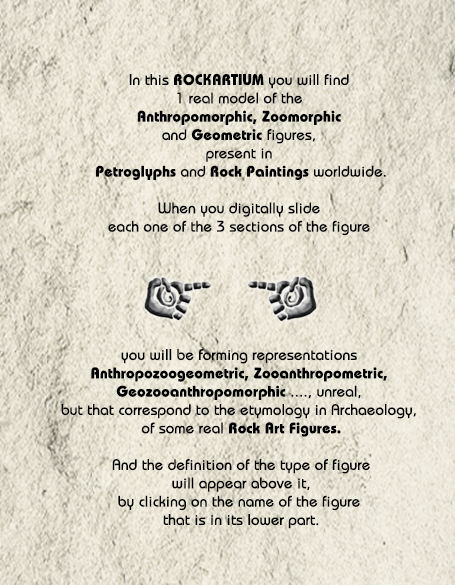
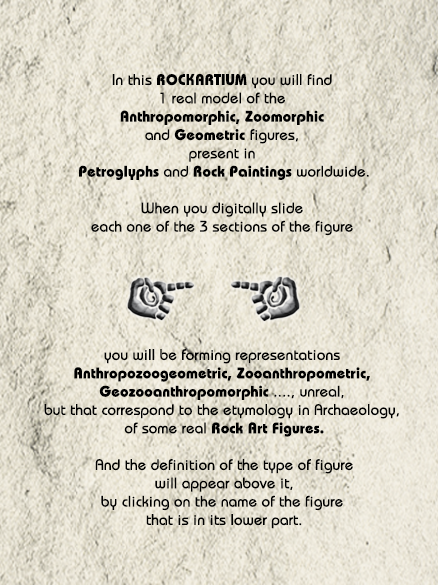
Algunos arreglos

Changed region(s): [[0.0, 0.0, 0.9201, 1.0], [0.5342, 0.9846, 0.5639, 1.0]]

diff --git a/Rupestrarium/js/functions/mainFunctions.js b/Rupestrarium/js/functions/mainFunctions.js
@@ -130,6 +130,7 @@ function change_language(newLanguage){
 
 		// This makes the question and answers of the quiz load again with the new language
 		if(quiz){
+			createNarrowVersionHeader("recapitulate");
 			if (sendingEmail){
 				change_language_sendingEmail();
 			}
@@ -225,7 +226,6 @@ function loadCentralImage(num){
 	// In the narrow version the presentation, introduction and instructions view are contained in a common tab navigator
 	// They all appear in the "start" option of the index menu
 	if (num < 3){
-		tabNavigator = true;
 		createNarrowVersionHeader("startMenu", num);
 	} else if (num == 3){
 		createNarrowVersionHeader("credits");
@@ -236,7 +236,7 @@ function loadCentralImage(num){
 
 // In this function we also restore variables that indicate the state of the view to their default values
 function restoreDefaultValues(){
-	centralImage = tabNavigator = figures = quiz = false;
+	centralImage = figures = quiz = false;
 	head_body_feet = [0, 0, 0];
 	loadDef(); // Put the "Sur_de_marruecos.jpg" image in its place
 	resetDiv("main-background"); // Restore the default background of the central section

diff --git a/Rupestrarium/css/narrow.css b/Rupestrarium/css/narrow.css
@@ -118,13 +118,13 @@ main {
 
 /* Description that appears above a slider figure */
 #figureDesc{
-	font-size: 1.7vw; 
+	font-size: 3.7vw; 
 	width: 97%;
 }
 
 /* Kind of a slider figure (e.g. Anthropomorphic) */
 #figureKind{
-	font-size: 4.5vw;
+	font-size: 5.3vw;
 }
 
 /* Label that has information related to a figure, like its name, location, etc. */
@@ -148,14 +148,19 @@ main {
 
 /* Format of a question that is not the last one */
 #normalQuestion{
-	font-size: 1.9vw;
+	font-size: 3.9vw;
 }
 
 /* Format of a possible answer of a question that is not the last one */
 .normalQAnswer{
 	padding-left: 10px; 
-	font-size: 1.9vw; 
+	font-size: 3.9vw; 
 	font-family: 'FontTexto';
+}
+
+/* Format for the hand that appears below the question to advance to the next one */
+#handToRight img{
+	height: 10vmin;
 }
 
 /* Button in which the user selects an option for an answer */

diff --git a/Rupestrarium/js/global.js b/Rupestrarium/js/global.js
@@ -10,8 +10,6 @@ var sendEmailAllowed = true;
 
 // ------ BEGIN: Variables that determine if the user is currently in a determined view ---------------
 var centralImage = true; // It refers to any of the views: Presentation, Instructions, etc., that actually consist on an image on the center
-var tabNavigator = false; // In the narrow version the Presentation, Introduction and Instructions views are 
-						  // contained in a common tab navigator, so this indicates if the user is currently in any of them.
 var figures = false; // It is false when there is no slider figure in the view; otherwise it indicates if it is a petroglyph or a rock painting
 var quiz = false; // Indicates if the user is currently solving the quiz
 var quizFinished = false;

diff --git a/Rupestrarium/js/functions/quizFunctions.js b/Rupestrarium/js/functions/quizFunctions.js
@@ -67,7 +67,7 @@ function nextQuestion(figureNotCreated=true){
 
 		// Here we put the image of the hand to advance to the next question
 		document.getElementById("handToRight").innerHTML =
-			`<img onclick="submitA(` + numQuestion.toString()+`); numQuestion+=1; nextQuestion();" style="height:6vmin" 
+			`<img onclick="submitA(` + numQuestion.toString()+`); numQuestion+=1; nextQuestion();"
 				onmouseover="this.src='img/derblue.png'" onmouseout="this.src='img/derecha.png'" src="img/derecha.png">`;
 	}
 	else{ // The last question needs a different treatment

diff --git a/Rupestrarium/css/medium.css b/Rupestrarium/css/medium.css
@@ -187,6 +187,11 @@ main {
 	font-family: 'FontTexto';
 }
 
+/* Format for the hand that appears below the question to advance to the next one */
+#handToRight img{
+	height: 6vmin;
+}
+
 /* Button in which the user selects an option for an answer */
 input[type=radio] {
 	width: 15px;

diff --git a/Rupestrarium/css/wide.css b/Rupestrarium/css/wide.css
@@ -185,6 +185,11 @@ main {
 	font-family: 'FontTexto';
 }
 
+/* Format for the hand that appears below the question to advance to the next one */
+#handToRight img{
+	height: 6vmin;
+}
+
 /* Button in which the user selects an option for an answer */
 input[type=radio] {
 	width: 20px;

diff --git a/Rupestrarium/js/functions/auxiliarFunctions.js b/Rupestrarium/js/functions/auxiliarFunctions.js
@@ -40,6 +40,3 @@ function auto_height(elem, idToCompare){
 		elem.style.height = scrollHeight;
 	}	
 }
-
-
-//function convertSpacesToBrTag(text)
